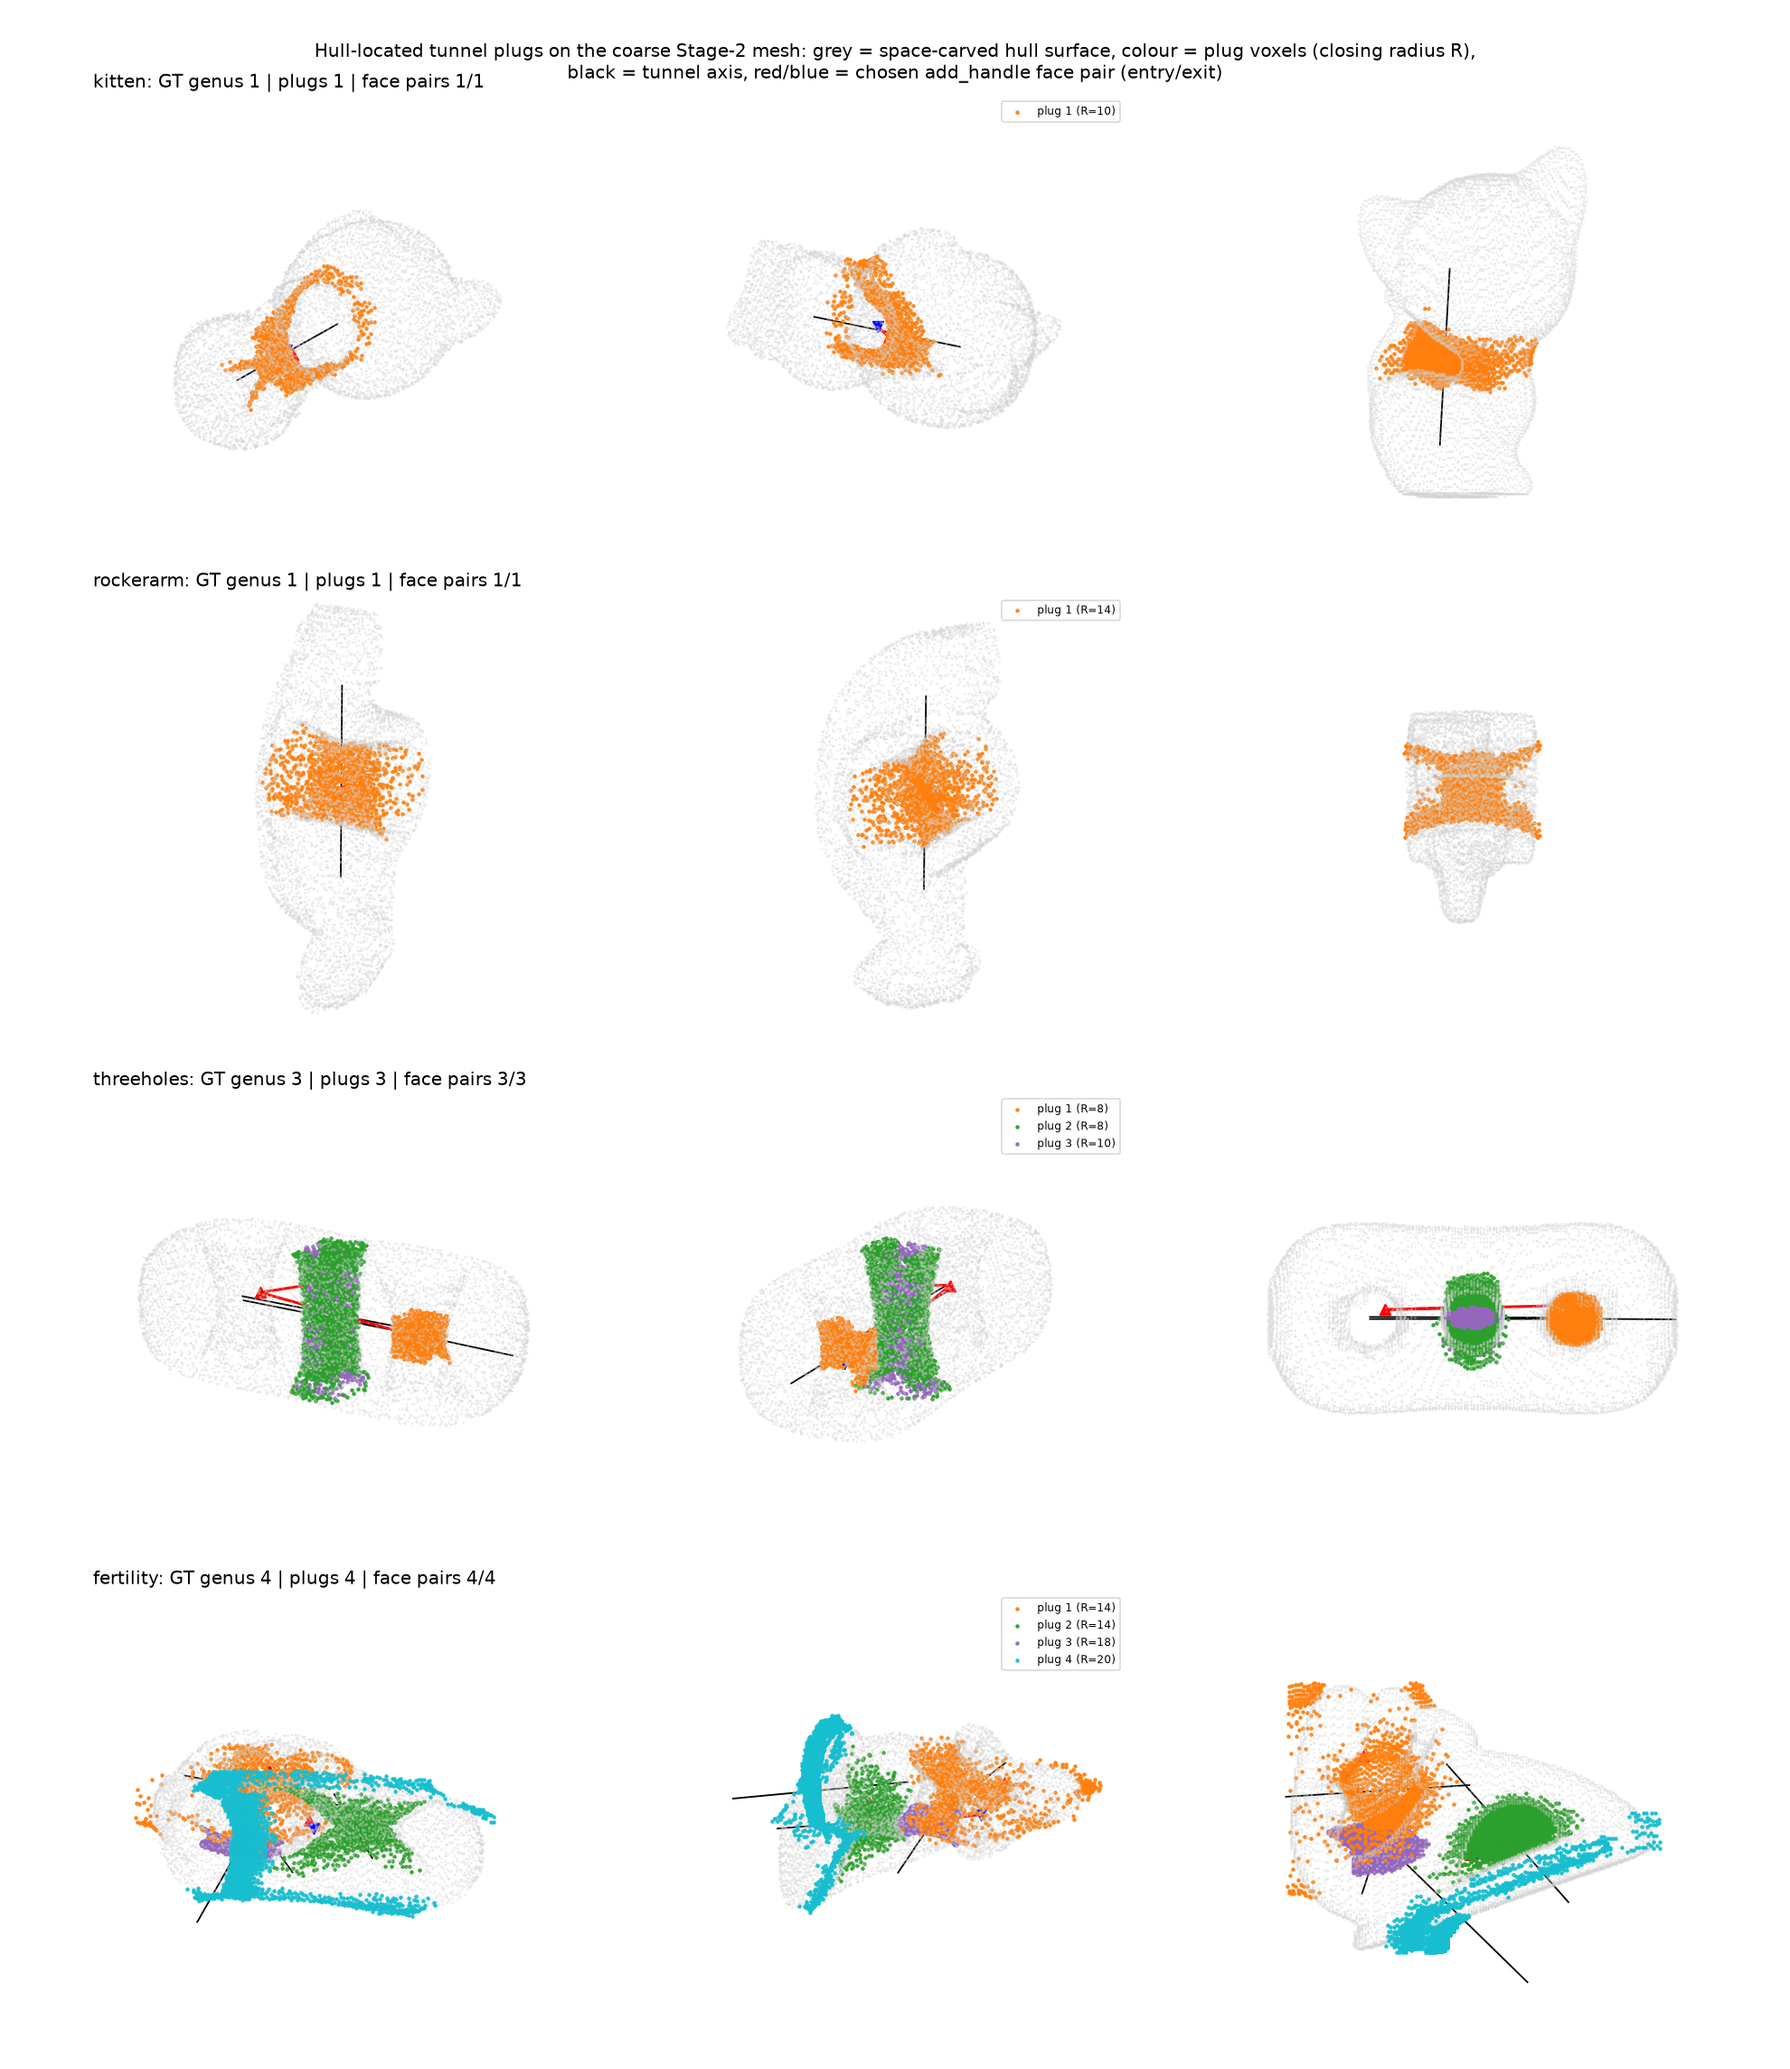
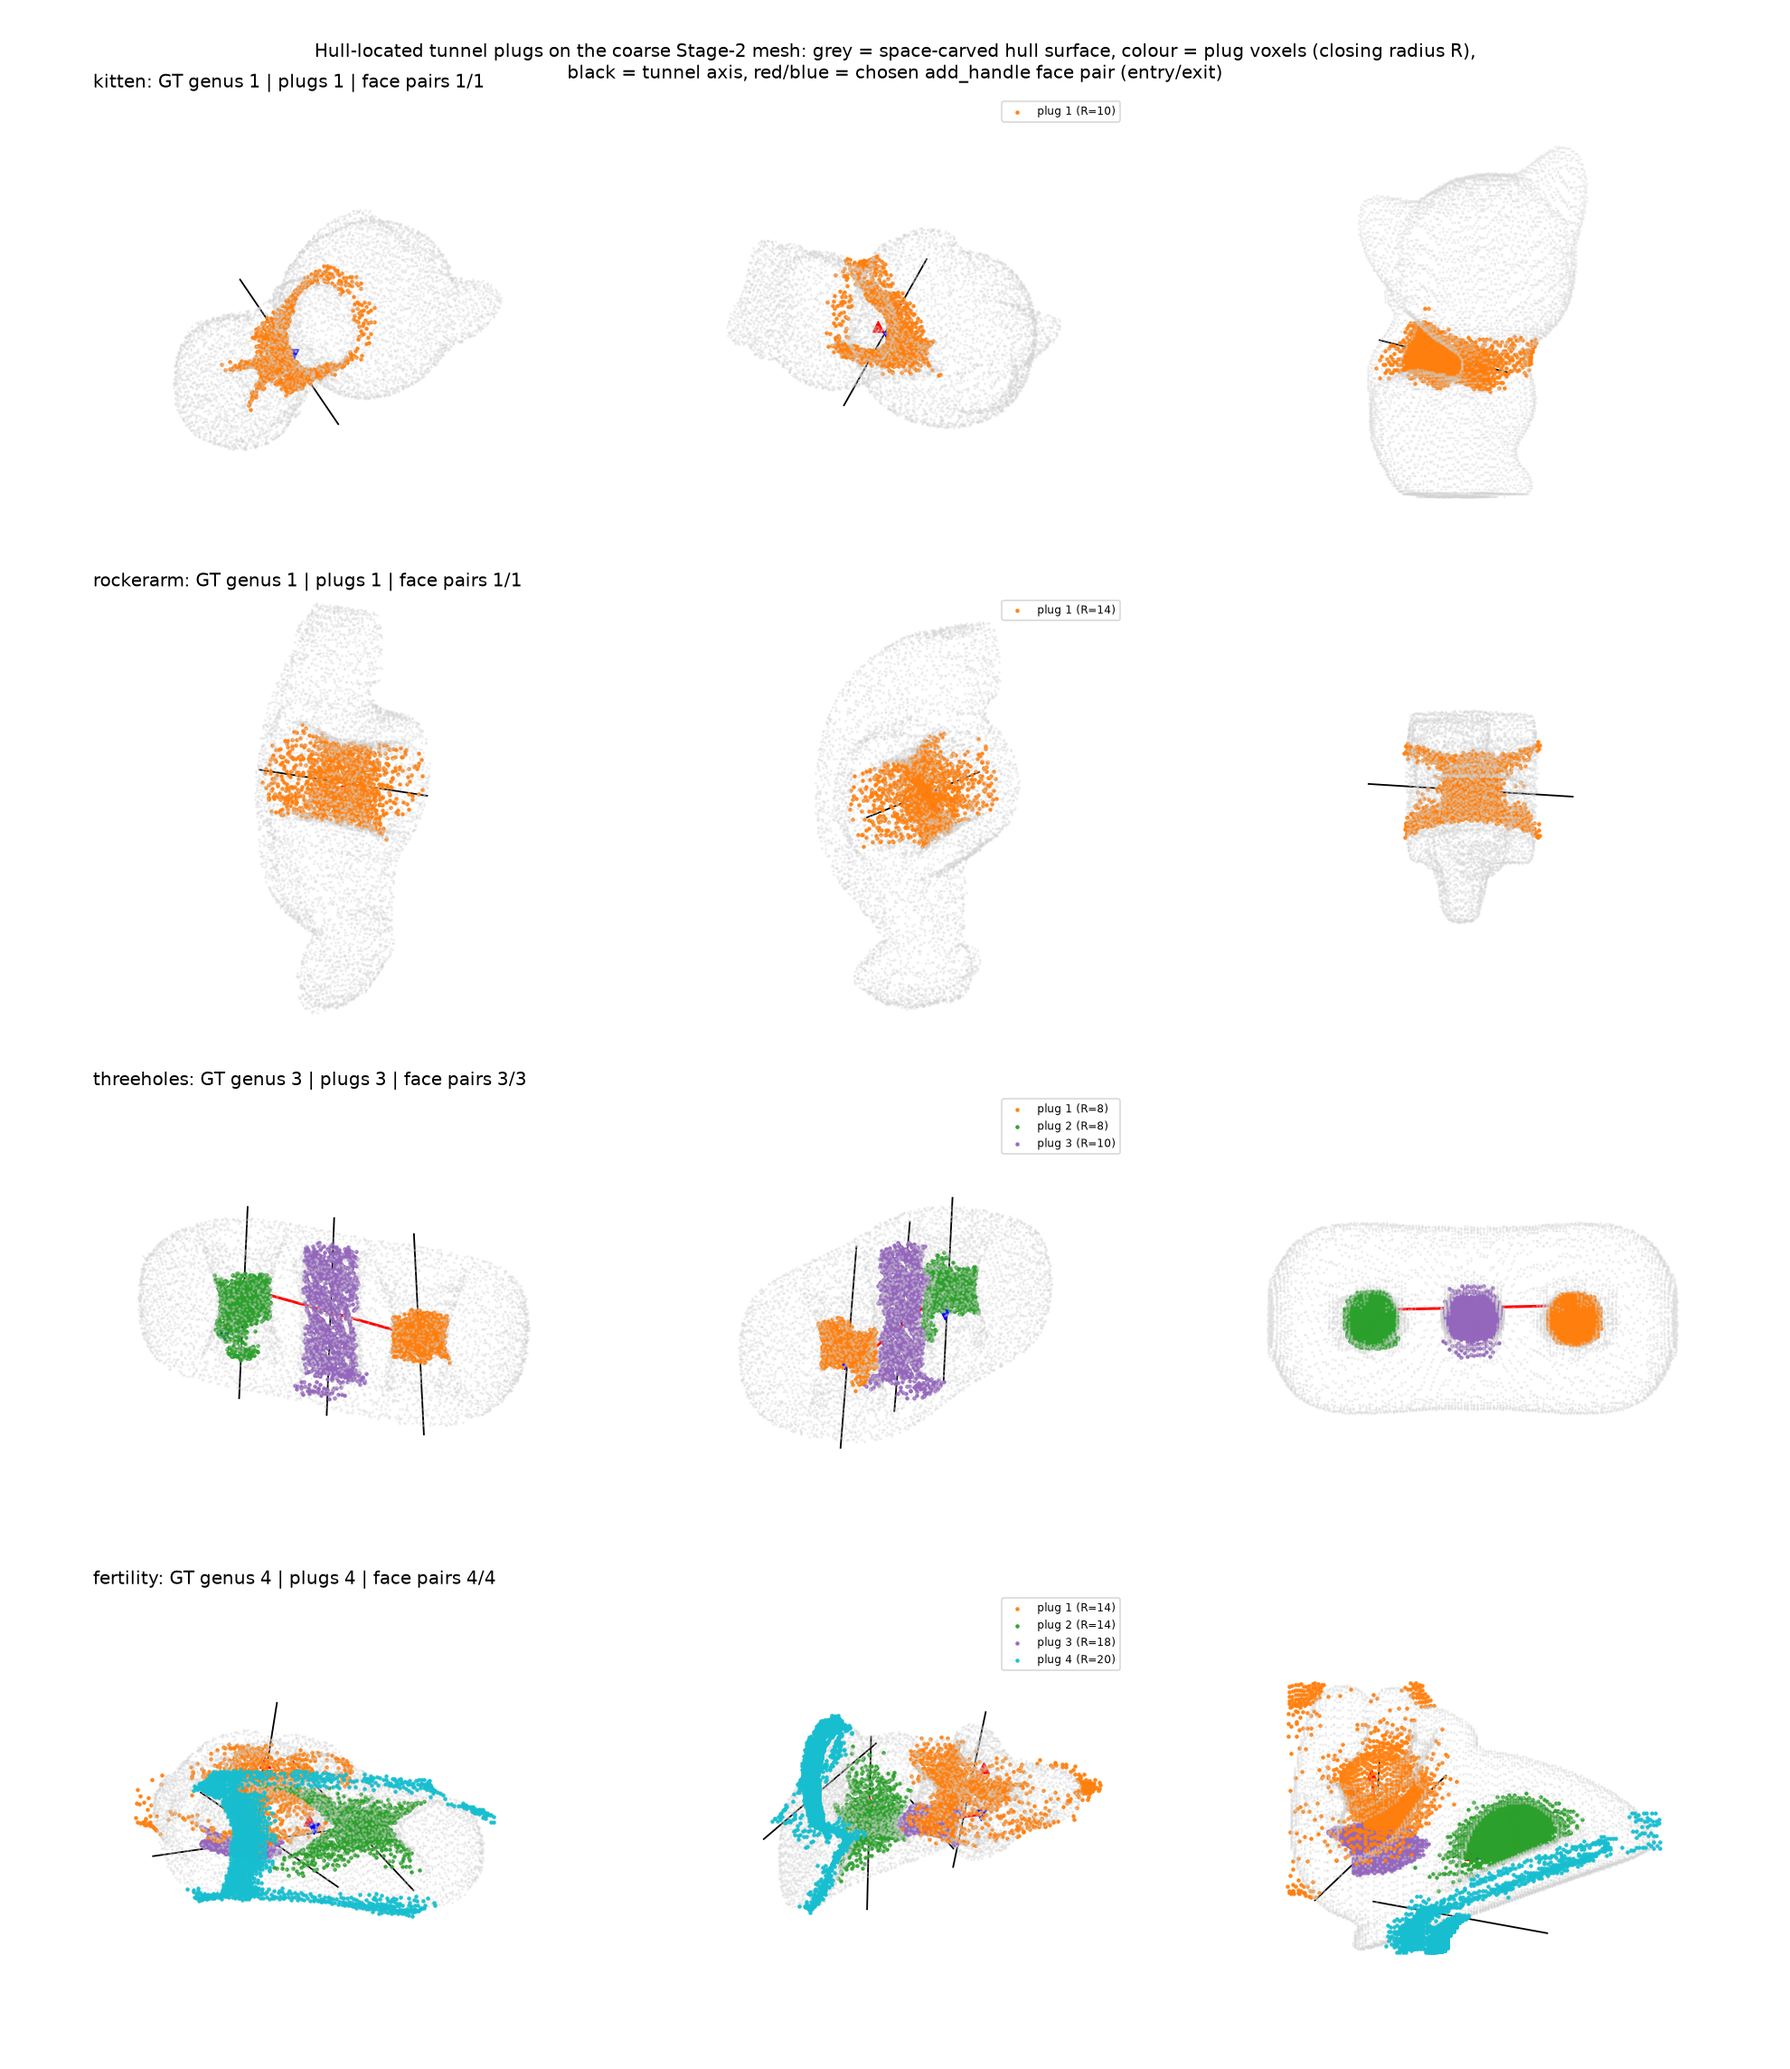
phase7 hull: essential increment core (fixes threeholes left-hole plug), tunnel axis by longest free path through the hull air (cone mean), axis rays as primary face-pair strategy

Changed region(s): [[0.1232, 0.5896, 0.2157, 0.6827], [0.4621, 0.5896, 0.5545, 0.6827], [0.7394, 0.5896, 0.8626, 0.6827]]

diff --git a/experiments/opseq_v5/despike/phase7_handle.py b/experiments/opseq_v5/despike/phase7_handle.py
@@ -528,6 +528,7 @@ def find_tunnel_by_hull(V, F, HF_in, prev_handles=(), g_target=None):
                 edt_dil = ndimage.distance_transform_edt(dil).astype(np.float32)
                 close_R = dil & (edt_dil > R)
                 incr = close_R & ~prev_close        # voxels added at THIS radius only (fillets from lower R excluded)
+                base_R = prev_close | claimed         # everything sealed before this radius
                 prev_close = close_R
                 D = close_R & ~hs & ~claimed   # cumulative region from morphological closing (acceptance test)
 
@@ -617,8 +618,19 @@ def find_tunnel_by_hull(V, F, HF_in, prev_handles=(), g_target=None):
                         # but must not bias the centre/axis. Largest 26-component of the increment.
                         core = piece & incr
                         if core.sum() >= 10:
+                            # ESSENTIAL component: the increment component whose removal re-opens the
+                            # tunnel (genus(base | piece - c) > genus(base | piece)). The largest one is
+                            # NOT necessarily it (threeholes: the plug sealing the left hole had its
+                            # largest increment piece sitting in the middle hole).
                             lab_k, nk = ndimage.label(core, structure=S26)
-                            if nk > 1: core = lab_k == (np.bincount(lab_k.ravel())[1:].argmax() + 1)
+                            g_full = _genus_solid(base_R | piece)
+                            chosen = None
+                            for kk in np.argsort(-np.bincount(lab_k.ravel())[1:]):
+                                ck = lab_k == (kk + 1)
+                                if ck.sum() < 10: break
+                                if _genus_solid(base_R | (piece & ~ck)) > g_full:   # removing it un-seals
+                                    chosen = ck; break
+                            core = chosen if chosen is not None else (lab_k == (np.bincount(lab_k.ravel())[1:].argmax() + 1))
                         if core.sum() >= 10:
                             pts = np.array(np.nonzero(core)).T.astype(float)
                             peak_vox = pts.mean(0)              # disk centroid = tunnel centre
@@ -635,7 +647,25 @@ def find_tunnel_by_hull(V, F, HF_in, prev_handles=(), g_target=None):
                             ev, evec = np.linalg.eigh(np.cov(pts.T))
                         else:
                             ev, evec = np.ones(3), np.eye(3)
-                        axis_vox = evec[:, 0]  # smallest variance = tunnel axis
+                        # Tunnel axis = direction of the longest FREE PATH through the hull air from the
+                        # plug centre (the tunnel is air in the clean hull). PCA of the plug is ambiguous:
+                        # thin membrane -> shortest axis, thick slab -> longest axis. Free path is not.
+                        _c0 = pts.mean(0); _dirs = []; _lens = []
+                        _k = np.arange(200); _z = 1 - 2 * (_k + 0.5) / 200; _r = np.sqrt(1 - _z * _z); _ph = _k * 2.399963
+                        for _d in np.stack([_r * np.cos(_ph), _r * np.sin(_ph), _z], 1):
+                            _L = 0
+                            for _s in (1.0, -1.0):
+                                _p = _c0.copy()
+                                for _step in range(res):
+                                    _p = _p + _s * _d; _q = np.round(_p).astype(int)
+                                    if _q.min() < 0 or _q.max() >= res or hs[tuple(_q)]: break
+                                    _L += 1
+                            _dirs.append(_d); _lens.append(_L)
+                        _lens = np.asarray(_lens); _dirs = np.asarray(_dirs)
+                        _top = _dirs[_lens >= 0.9 * _lens.max()]
+                        _top = _top * np.sign(_top @ _top[0])[:, None]      # fold antipodal directions
+                        _best = _top.mean(0); _bn = np.linalg.norm(_best)
+                        axis_vox = _best / _bn if _bn > 1e-6 else evec[:, 0]
                         is_disk = bool(ev[1] > 0 and ev[0] < ev[1])
 
                         cen_w = vox2world(cen_vox)
@@ -716,46 +746,10 @@ def find_tunnel_by_hull(V, F, HF_in, prev_handles=(), g_target=None):
             print(f"[p7] hull plug R={R} at {np.round(cen_w,3)}: dedup skip", flush=True)
             continue
 
-        # ── Strategy 1: proximity-based pair from membrane patches ────────────
-        # Find membrane disk faces near the plug, grouped by patch (connected
-        # component). Pick the closest face from each of the two nearest patches.
-        # Grouping by patch instead of axis side handles boundary plugs where
-        # both membrane sheets project onto the same axis side.
-        cen_vox_ref = world2vox(cen_w)
-        peak_vox_ref = world2vox(peak_w)
-        from collections import defaultdict as _ddict
-        patch_faces_near = _ddict(list)   # root -> [(fi, dist)]
-        for fi, root in comp_mp.items():
-            if chi_mp.get(root) != 1: continue   # only disk patches
-            fc = tri_cen[fi]
-            fc_vox = world2vox(fc)
-            d_cen = float(np.linalg.norm(fc_vox - cen_vox_ref))
-            d_peak = float(np.linalg.norm(fc_vox - peak_vox_ref))
-            d_min = min(d_cen, d_peak)
-            if d_min > 50: continue  # sanity limit
-            patch_faces_near[root].append((fi, d_min))
-
-        # Sort patches by distance of their closest face to the plug
-        patch_order = sorted(patch_faces_near.keys(),
-            key=lambda r: min(d for _, d in patch_faces_near[r]))
-
+        cen_vox_ref = world2vox(cen_w); peak_vox_ref = world2vox(peak_w); patch_faces_near = {}
+        # ── Strategy A: rays from the plug centre along +-tunnel axis (free-path axis) ─────────────────────────────────────
         fi_fj = None
-        # Try pairs from distinct patches (closest two patches first)
-        for pi_idx in range(len(patch_order)):
-            if fi_fj is not None: break
-            for pj_idx in range(pi_idx + 1, len(patch_order)):
-                if fi_fj is not None: break
-                ri = patch_order[pi_idx]; rj = patch_order[pj_idx]
-                for fi_c, _ in sorted(patch_faces_near[ri], key=lambda x: x[1]):
-                    if fi_fj is not None: break
-                    for fj_c, _ in sorted(patch_faces_near[rj], key=lambda x: x[1]):
-                        if fi_c == fj_c: continue
-                        if set(F[fi_c]) & set(F[fj_c]): continue
-                        fi_fj = (fi_c, fj_c, tri_cen[fi_c].copy(), tri_cen[fj_c].copy())
-                        break
-
-        # ── Strategy 2: ray-cast fallback ─────────────────────────────────────
-        if fi_fj is None:
+        if True:
             sample_pts = [peak_w, cen_w]
             for origin in [peak_w, cen_w]:
                 for t_frac in np.linspace(-1.0, 1.0, 12):
@@ -782,6 +776,44 @@ def find_tunnel_by_hull(V, F, HF_in, prev_handles=(), g_target=None):
                 if np.linalg.norm(world2vox(ci_w) - cen_vox_ref) > 50: continue
                 if np.linalg.norm(world2vox(cj_w) - cen_vox_ref) > 50: continue
                 fi_fj = (fi_h, fj_h, ci_w, cj_w)
+
+        if fi_fj is None:
+            # ── Strategy B (fallback): proximity-based pair from membrane patches ────────────
+            # Find membrane disk faces near the plug, grouped by patch (connected
+            # component). Pick the closest face from each of the two nearest patches.
+            # Grouping by patch instead of axis side handles boundary plugs where
+            # both membrane sheets project onto the same axis side.
+            cen_vox_ref = world2vox(cen_w)
+            peak_vox_ref = world2vox(peak_w)
+            from collections import defaultdict as _ddict
+            patch_faces_near = _ddict(list)   # root -> [(fi, dist)]
+            for fi, root in comp_mp.items():
+                if chi_mp.get(root) != 1: continue   # only disk patches
+                fc = tri_cen[fi]
+                fc_vox = world2vox(fc)
+                d_cen = float(np.linalg.norm(fc_vox - cen_vox_ref))
+                d_peak = float(np.linalg.norm(fc_vox - peak_vox_ref))
+                d_min = min(d_cen, d_peak)
+                if d_min > 50: continue  # sanity limit
+                patch_faces_near[root].append((fi, d_min))
+
+            # Sort patches by distance of their closest face to the plug
+            patch_order = sorted(patch_faces_near.keys(),
+                key=lambda r: min(d for _, d in patch_faces_near[r]))
+
+            # Try pairs from distinct patches (closest two patches first)
+            for pi_idx in range(len(patch_order)):
+                if fi_fj is not None: break
+                for pj_idx in range(pi_idx + 1, len(patch_order)):
+                    if fi_fj is not None: break
+                    ri = patch_order[pi_idx]; rj = patch_order[pj_idx]
+                    for fi_c, _ in sorted(patch_faces_near[ri], key=lambda x: x[1]):
+                        if fi_fj is not None: break
+                        for fj_c, _ in sorted(patch_faces_near[rj], key=lambda x: x[1]):
+                            if fi_c == fj_c: continue
+                            if set(F[fi_c]) & set(F[fj_c]): continue
+                            fi_fj = (fi_c, fj_c, tri_cen[fi_c].copy(), tri_cen[fj_c].copy())
+                            break
 
         if fi_fj is None:
             n_no_face += 1
